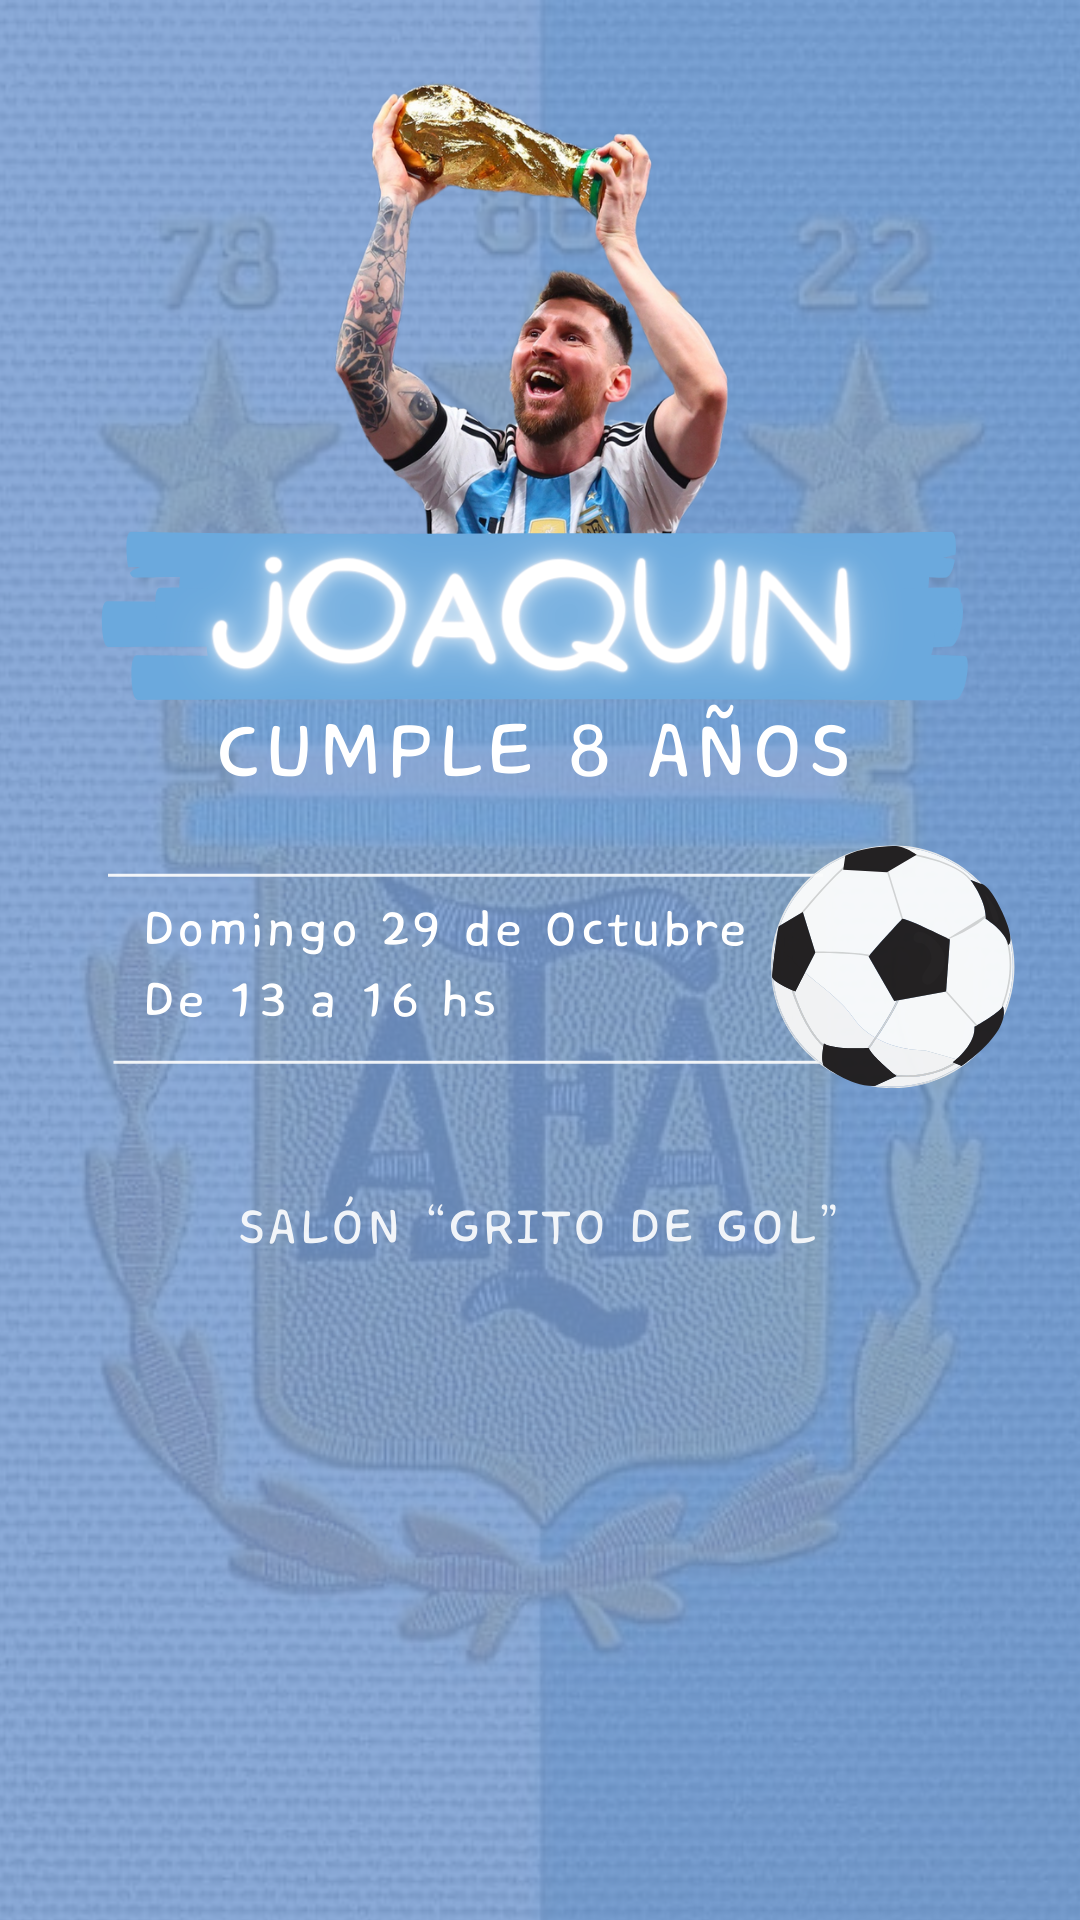
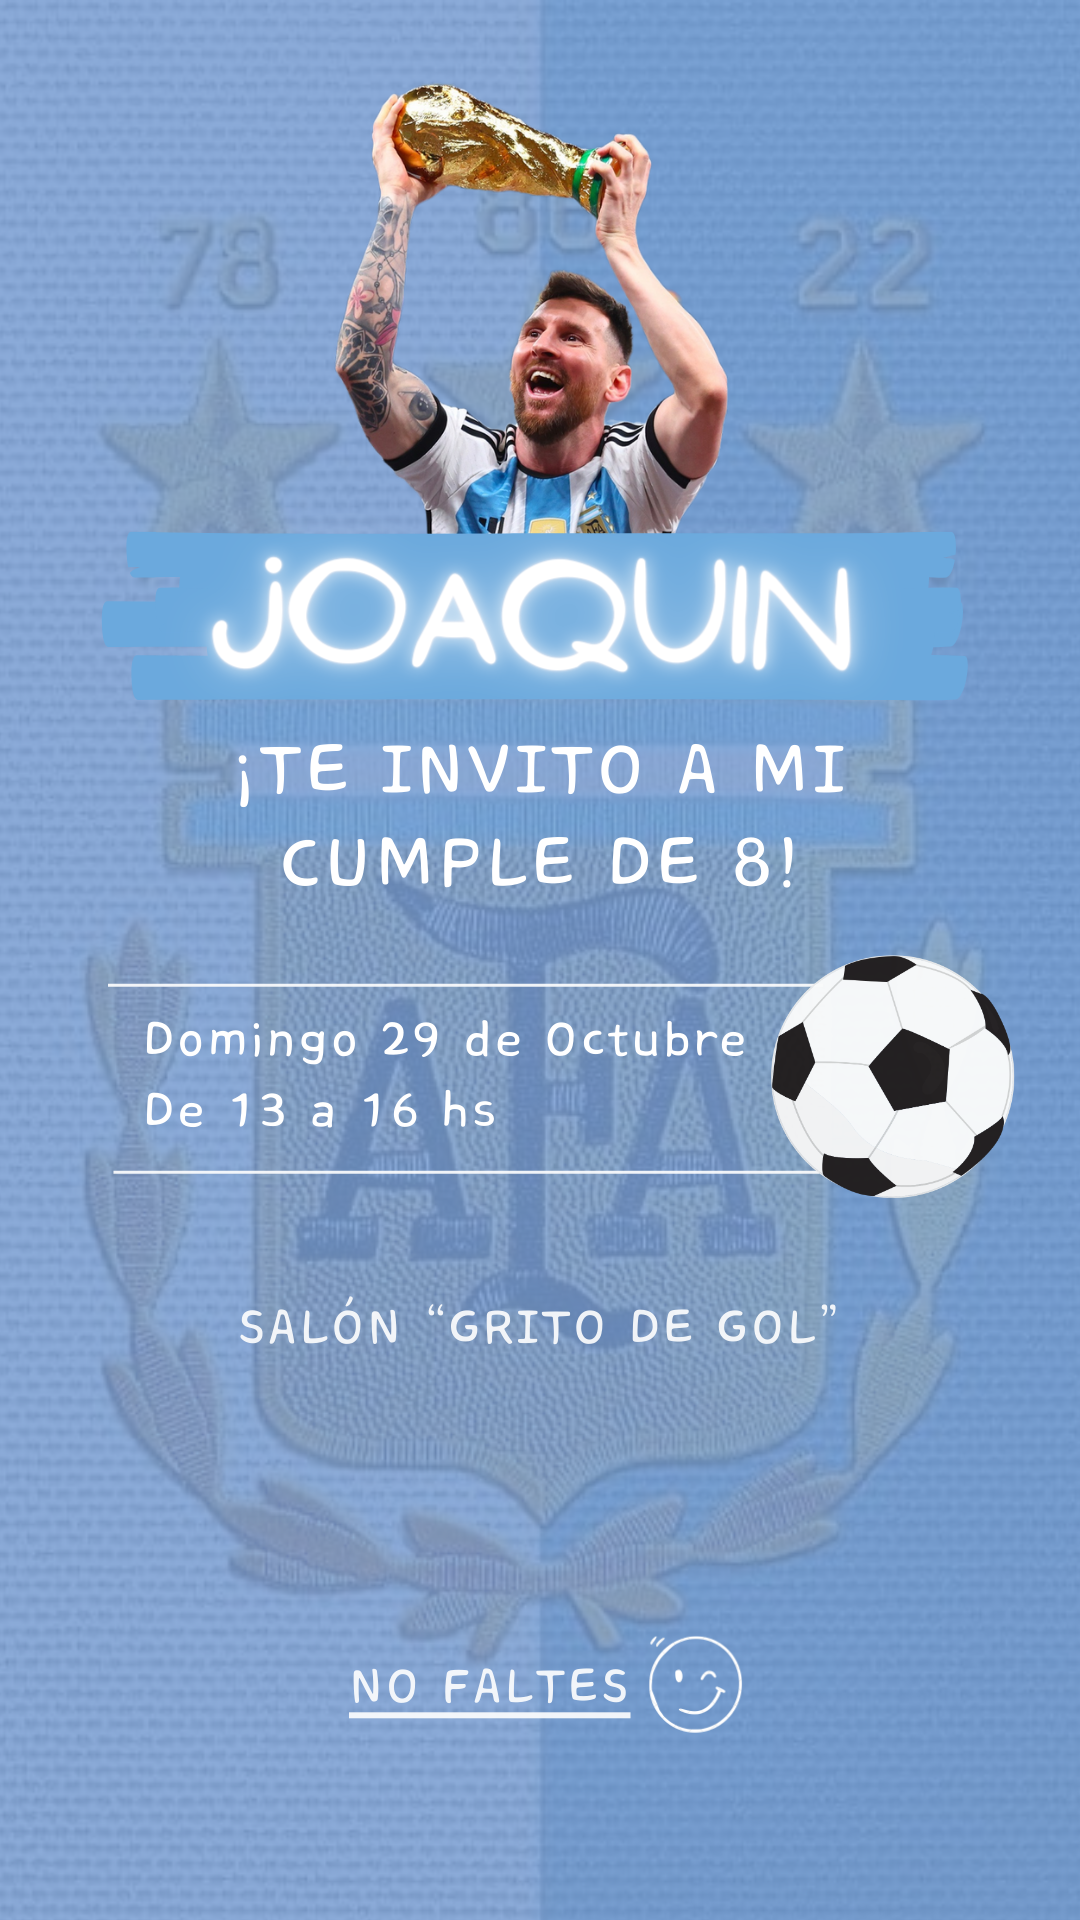
correc text

diff --git a/style.css b/style.css
@@ -17,7 +17,7 @@ body {
 
 .texto-encima{
     position: absolute;
-    top: 67%;
+    top: 71%;
     left: 15%;
     color: white;
     font-weight: 500;
